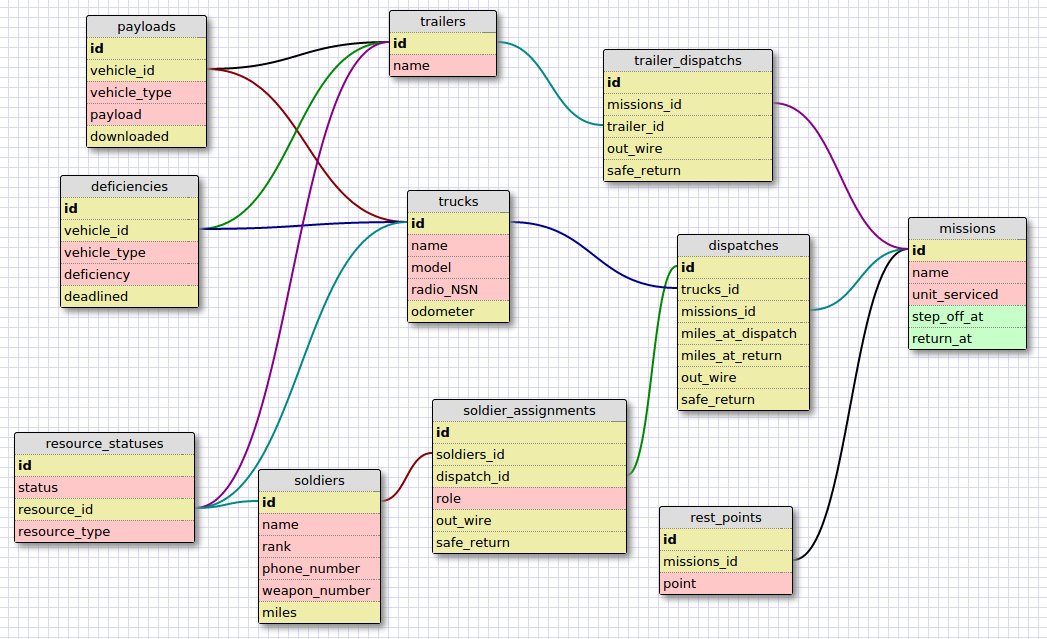
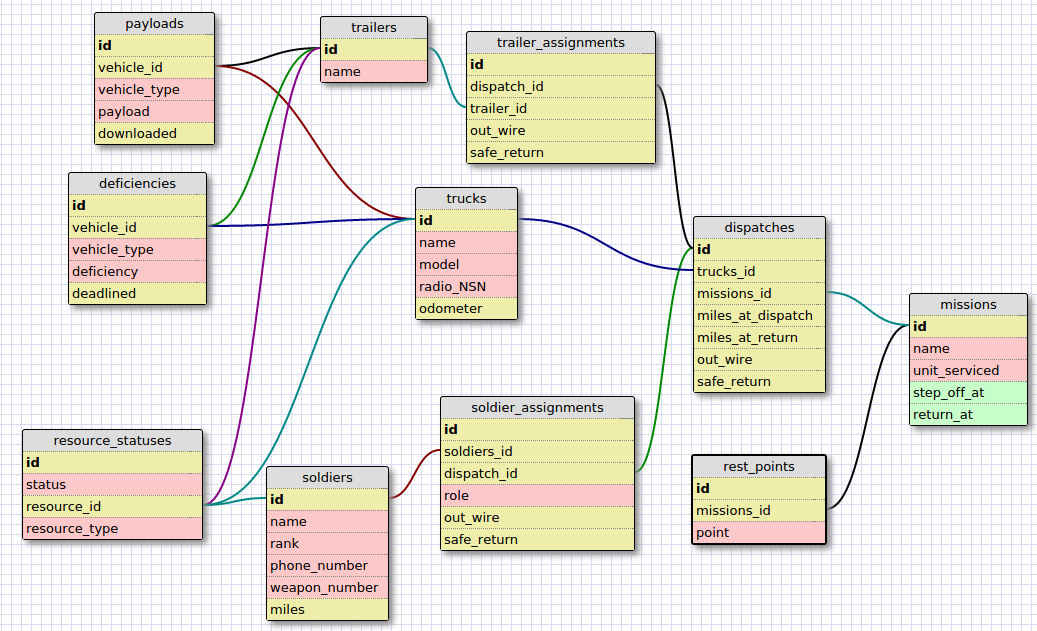
rework TL to wrk like Troops

diff --git a/app/models/dispatch.rb b/app/models/dispatch.rb
@@ -3,18 +3,27 @@ class Dispatch < ActiveRecord::Base
   belongs_to  :mission
   has_many    :soldier_assignments
   has_many    :soldiers, through: :soldier_assignments
+  has_many    :trailer_assignments
+  has_many    :trailers, through: :trailer_assignments
 
   validates :truck, presence: true, uniqueness: {scope: :mission}
   #validates :mission, presence: true
   validates :miles_at_dispatch, presence: true
 
   # validate :has_driver
+  # validate :has_co_driver
   # validate :moving_forward, on: :update
   # validate :two_to_a_truck, on: :create
 
   # def has_driver
-  #   if soldier_assignments.find_by(role: "Driver")
+  #   if self.soldier_assignments.find_by(role: "Driver")
   #     errors.add(:soldier_assignments, "no driver")
+  #   end
+  # end
+
+  # def has_co_driver
+  #   if self.soldier_assignments.find_by(role: "A-Driver")
+  #     errors.add(:soldier_assignments, "no co-driver")
   #   end
   # end
 
@@ -42,25 +51,26 @@ class Dispatch < ActiveRecord::Base
     # (so soldierAssignment can have the ID) and depend upon the fact that create mission is 
     # wraped in a transaction which will roll-back everything if the mission doesn't go through,
     # ...but I still don't like it.
-    dispatch = self.create!(truck: truck,
+    dispatch = self.create!(truck:             truck,
                             miles_at_dispatch: truck.odometer)
 
-    dispatch.soldier_assignments << SoldierAssignment.generate_assignment({ name: params[:driver_name],
-                                            role: "Driver"})
+    driver = {name: params[:driver_name], role: "Driver"}
+    dispatch.soldier_assignments << SoldierAssignment.generate_assignment(driver)
 
-    dispatch.soldier_assignments << SoldierAssignment.generate_assignment({ name: params[:a_driver_name],
-                                            role: "A-Driver"})
+    co_driver = {name: params[:a_driver_name], role: "A-Driver"}
+    dispatch.soldier_assignments << SoldierAssignment.generate_assignment(co_driver)
 
     dispatch
   end
 
-  # def self.find_drivers(driver_names)
-  #   driver_names.map {|driver| Soldier.find_by_name(driver)}
-  # end
-
   def self.add_passenger(params)
-    find_by(truck: Truck.find_by_name(params[:truck_name])).soldier_assignments << SoldierAssignment.generate_assignment({ name: params[:passenger_name],
-                                            role: "Passenger"})
+    tr= SoldierAssignment.generate_assignment({name:params[:passenger_name],role:"Passenger"})
+    find_by(truck:Truck.find_by_name(params[:truck_name])).soldier_assignments << tr
+  end
+
+  def self.add_trailer(params)
+    tl= TrailerAssignment.generate_assignment({name: params[:name]})
+    find_by(truck: Truck.find_by_name(params[:truck_name])).trailer_assignments << tl
   end
 
   def leave_wire

diff --git a/app/models/mission.rb b/app/models/mission.rb
@@ -1,13 +1,13 @@
 class Mission < ActiveRecord::Base
   has_many :rest_points
   has_many :dispatches
-  has_many :trailer_dispatches
 
   has_many :trucks, through: :dispatches
-  has_many :trailers, through: :trailer_dispatches
+  has_many :trailer_assignments, through: :dispatches
   has_many :soldier_assignments, through: :dispatches
 
   has_many :soldiers, through: :soldier_assignments
+  has_many :trailers, through: :trailer_assignments
 
   #these are not doing what I am expecting...
   # has_many :soldiers, through: :dispatches, source: :driver
@@ -40,9 +40,10 @@ class Mission < ActiveRecord::Base
       unit_serviced: params[:mission][:unit_serviced])
 
       mission.dispatches << self.set_up_dispatches(params[:trucks])
-      mission.trailer_dispatches << self.set_up_trailer_dispatches(params[:trailers])
+      # mission.trailer_dispatches << self.set_up_trailer_dispatches(params[:trailers])
 
-      SoldierAssignment.set_up_roster(params[:passengers]) if params[:passengers]
+      SoldierAssignment.assign_passengers(params[:passengers]) if params[:passengers]
+      TrailerAssignment.assign_trailers(params[:trailers]) if params[:trailers]
       Payload.assign_payloads(params[:payloads]) if params[:payloads]
 
       mission.save!
@@ -108,12 +109,12 @@ class Mission < ActiveRecord::Base
       end
   end
 
-  # def generate_display
-  #   trucks = self.dispatches.map{ |d| d.generate_truck }
-  #   soldiers = self.passengers.map{ |p| p.generate_soldier }
-  #   trailers = self.trailer_dispatches.map{ |td| td.generate_trailer }
-  #   {mission: self, trucks: trucks, soldiers: soldiers, trailers: trailers}
-  # end
+  def generate_display
+    trucks = self.dispatches.map{ |d| d.generate_truck }
+    soldiers = self.passengers.map{ |p| p.generate_soldier }
+    trailers = self.trailer_dispatches.map{ |td| td.generate_trailer }
+    {mission: self, trucks: trucks, soldiers: soldiers, trailers: trailers}
+  end
 
   def accountability_check
     if mission_resources.all?(&:returned)

diff --git a/app/models/trailer_assignment.rb b/app/models/trailer_assignment.rb
@@ -1,0 +1,38 @@
+class TrailerAssignment < ActiveRecord::Base
+  belongs_to :trailer
+  belongs_to :dispatch
+
+  validates :dispatch, presence: true
+  validates :trailer, presence: true #, uniqueness: {scope: :mission}
+
+  # def self.check_out_trailer(trailers)
+  #   trailers.map do |trailer|
+  #     self.create(trailer: Trailer.find_by_name(trailer["trailer_name"]))
+  #   end
+  # end
+
+  def self.generate_assignment(params)
+    self.new(trailer: Trailer.find_by_name(params[:name]))
+  end
+
+  def self.assign_trailers(trailers)
+    trailers.each do |assignment_params|
+      Dispatch.add_trailer(assignment_params)
+    end
+  end
+
+  def leave_wire
+    self.out_wire = true
+    self.save
+  end
+
+  def safe_return
+    self.returned = true
+    self.save
+  end
+
+  def generate_trailer
+    {trailer: trailer, returned: self.returned, dispatch_id: self.id}
+  end
+
+end

diff --git a/db/migrate/20150519112844_create_trailer_assignments.rb b/db/migrate/20150519112844_create_trailer_assignments.rb
@@ -1,7 +1,7 @@
-class CreateTrailerDispatches < ActiveRecord::Migration
+class CreateTrailerAssignments < ActiveRecord::Migration
   def change
-    create_table :trailer_dispatches do |t|
-      t.integer   :mission_id
+    create_table :trailer_assignments do |t|
+      t.integer   :dispatch_id
       t.integer   :trailer_id
       t.boolean :out_wire, default: false
       t.boolean :safe_return, default: false

diff --git a/app/models/soldier_assignment.rb b/app/models/soldier_assignment.rb
@@ -22,7 +22,7 @@ class SoldierAssignment < ActiveRecord::Base
              role:     params[:role])
   end
 
-  def self.set_up_roster(passengers)
+  def self.assign_passengers(passengers)
     passengers.each do |assignment_params|
       Dispatch.add_passenger(assignment_params)
     end
